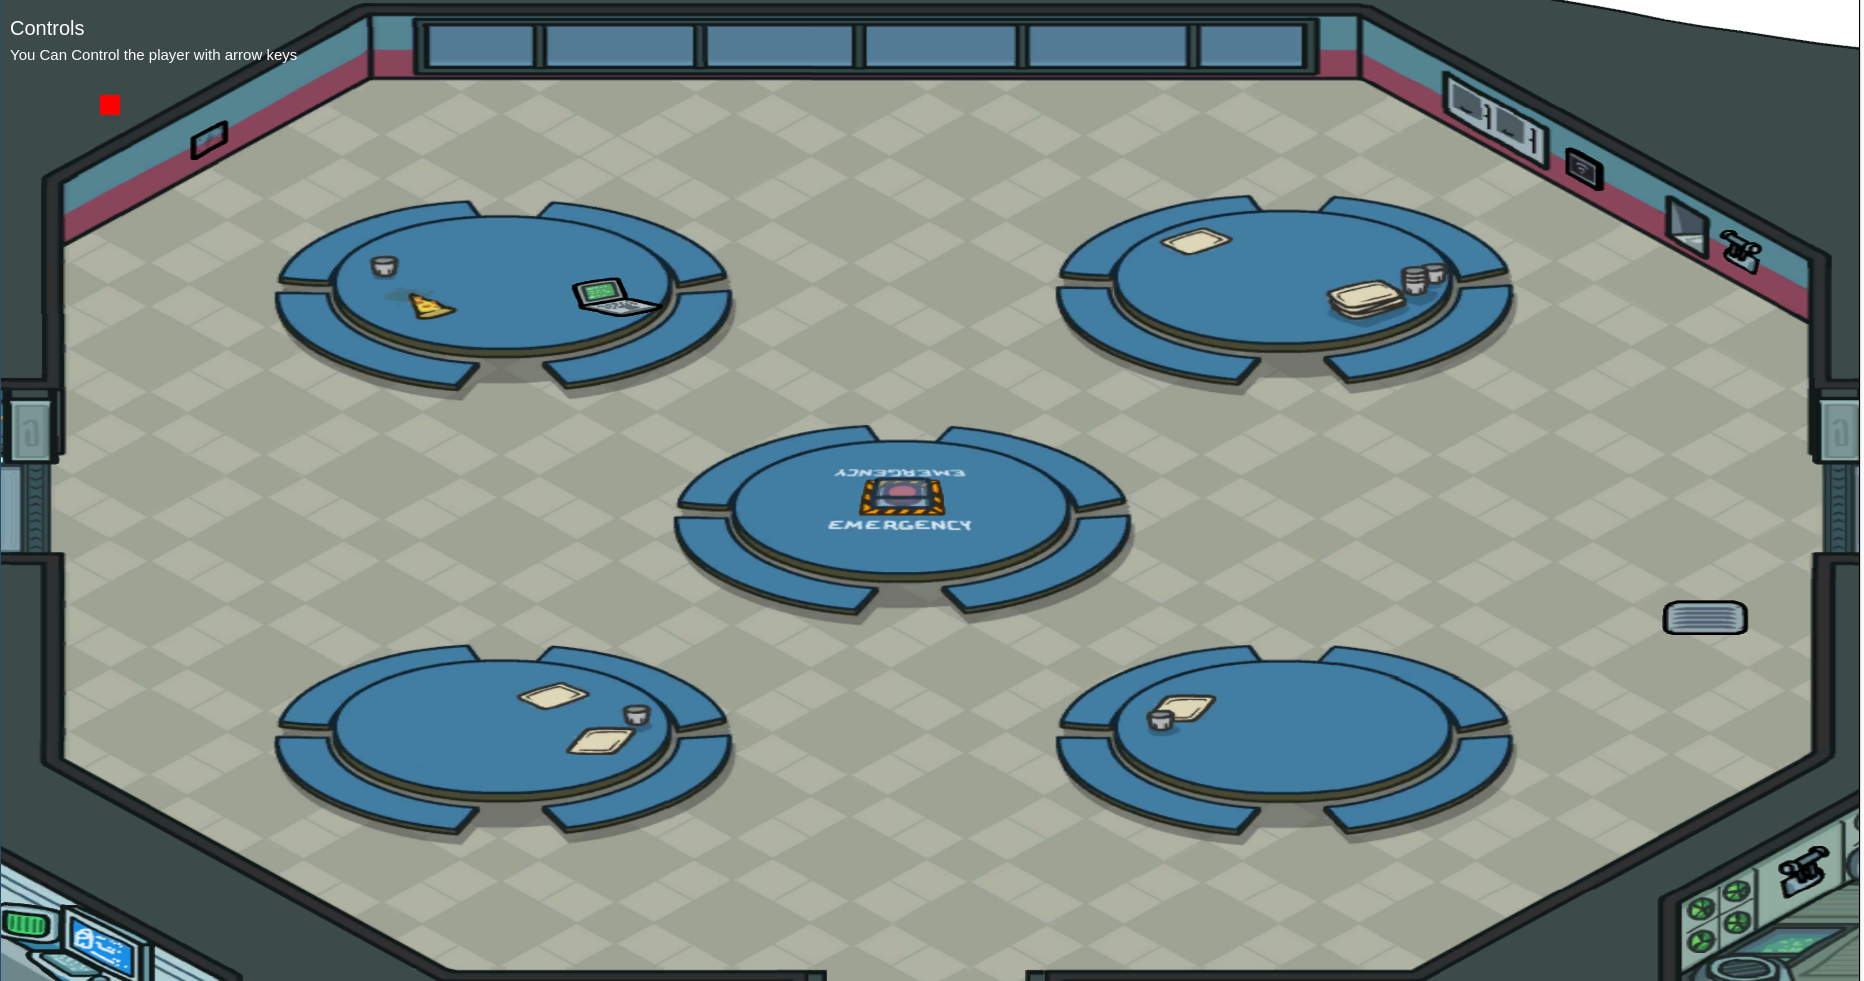
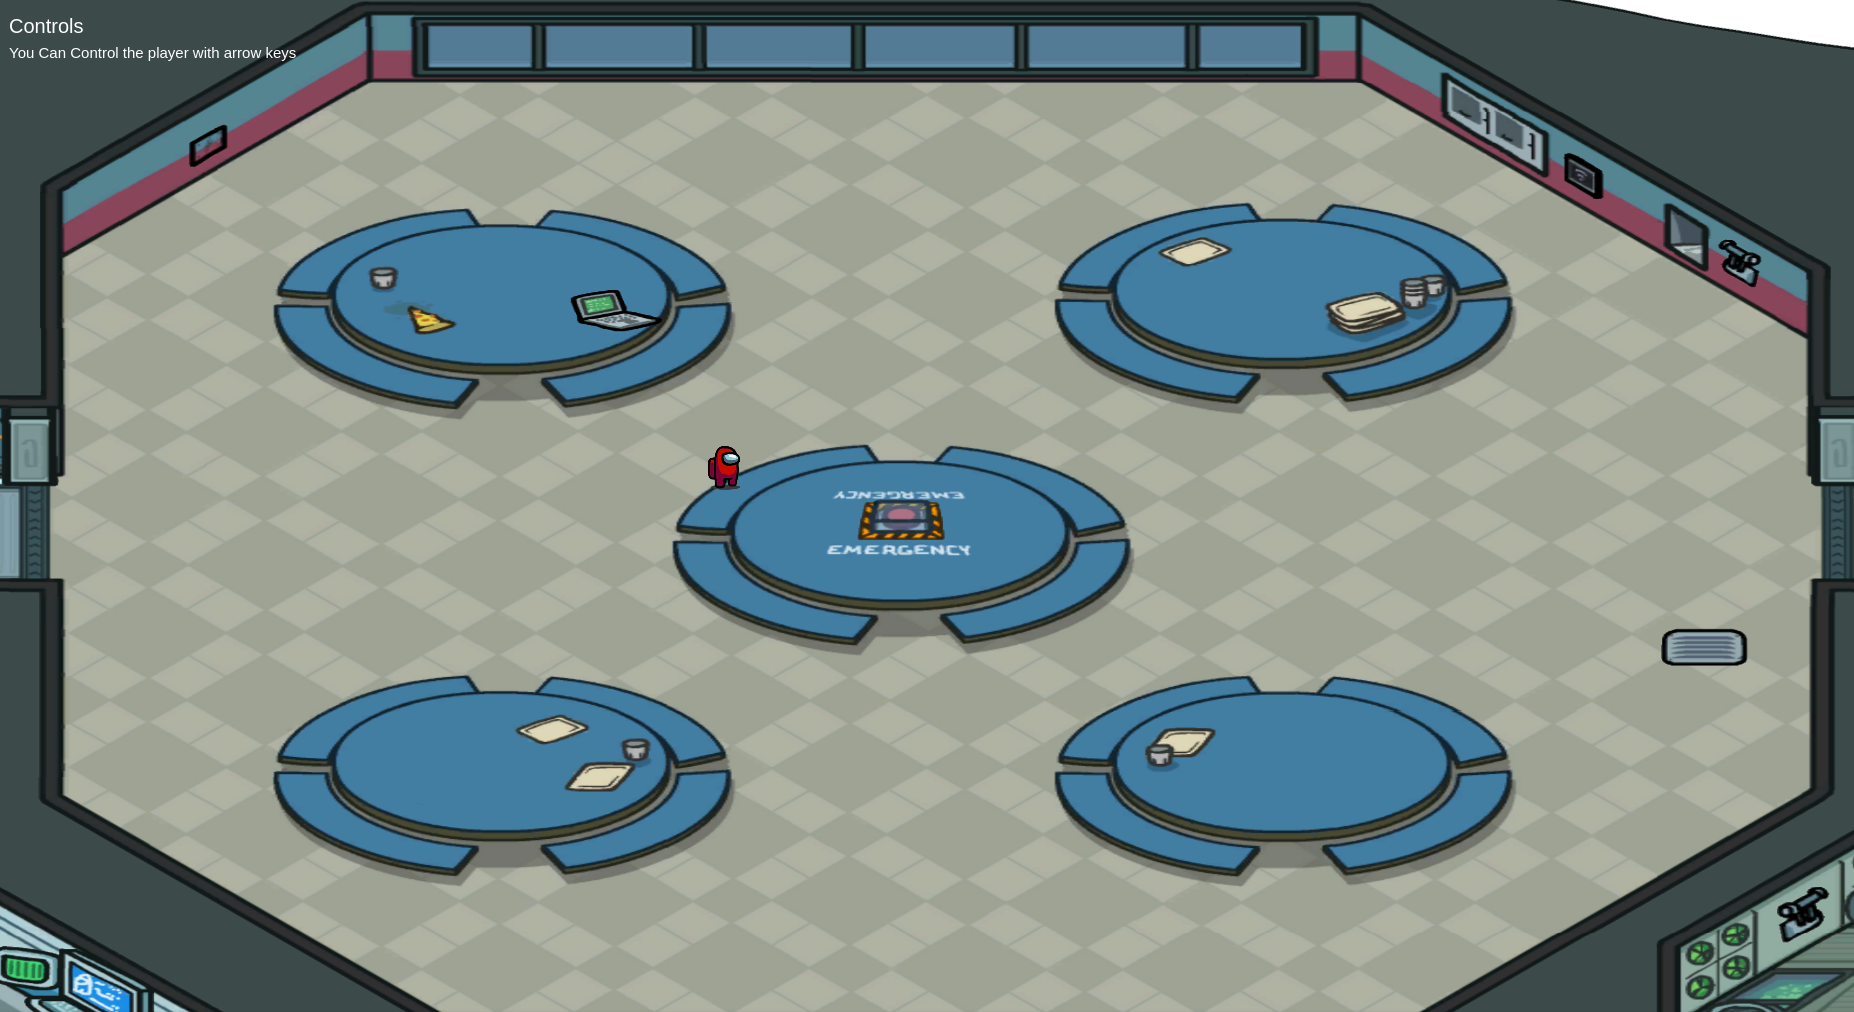
draw Player

diff --git a/main.js b/main.js
@@ -1,91 +1,125 @@
 (() => {
+    const canvasContainer = document.getElementById("canvas");
+    if (!canvasContainer) return;
 
-  const controlsUi = () => {
-    ctx.fillStyle = "white";
-    ctx.font = "20px Arial";
-    ctx.fillText("Controls", 10, 40);
-    ctx.font = "15px Arial";
-    ctx.fillText("You Can Control the player with arrow keys", 10, 65);
-  }
+    const ctx = canvasContainer.getContext("2d");
+    if (!ctx) return;
 
-  // canvas setup
-  const canvasContainer = document.getElementById("canvas")
-  let ctx = canvasContainer.getContext("2d");
-  const bgImage = new Image()
-  bgImage.src = './background.png';
+    // canvas dimentions
+    canvasContainer.width = window.innerWidth;
+    canvasContainer.height = window.innerHeight
 
-  bgImage.onload = () => {
-    ctx.drawImage(bgImage, 0, 0, canvas.width, canvas.height);
+    // Game state
+    let positionX = 400;
+    let positionY = 400;
+    const size = 50;
 
-    // After the background is drawn, you can draw other content on top
-    ctx.fillStyle = "white";
-    controlsUi()
+    // Load images
+    const bgImage = new Image();
+    bgImage.src = './background.png';
 
-    ctx.fillStyle = "red";
-    ctx.fillRect(positionX, positionY, size, size);
+    const playerImage = new Image();
+    playerImage.src = './red.png';
 
-    const image = document.getElementById("player");
+    const playerImageLeft = new Image();
+    playerImageLeft.src = './leftRed.png';
 
-    image.addEventListener("load", (e) => {
-      ctx.drawImage(image, 10, 60, 80, 80);
-    });
+    // UI functions
+    const controlsUi = () => {
+        ctx.fillStyle = "white";
+        ctx.font = "20px Arial";
+        ctx.fillText("Controls", 10, 40);
+        ctx.font = "15px Arial";
+        ctx.fillText("You Can Control the player with arrow keys", 10, 65);
+    };
 
-    function handleUp() {
-      ctx.clearRect(0, 0, canvas.width, canvas.height);
-      positionY -= 20;
-      ctx.fillRect(positionX, positionY, size, size);
-      controlsUi()
-    }
+    const drawPlayer = () => {
+            ctx.drawImage(playerImage, positionX, positionY, size, size);
+    };
 
-    function handleDown() {
-      ctx.clearRect(0, 0, canvas.width, canvas.height);
-      positionY += 20;
-      ctx.fillRect(positionX, positionY, size, size);
-      controlsUi()
-    }
+    const drawPlayerLeft = () => {
+            ctx.drawImage(playerImage, positionX, positionY, size, size);
+    };
 
-    function handleLeft() {
-      ctx.clearRect(0, 0, canvas.width, canvas.height);
-      positionX -= 20;
-      ctx.fillRect(positionX, positionY, size, size);
-      controlsUi()
-    }
+    const drawBackground = () => {
+        ctx.drawImage(bgImage, 0, 0, canvasContainer.width, canvasContainer.height);
+    };
 
-    function handleRight() {
-      ctx.clearRect(0, 0, canvas.width, canvas.height);
-      positionX += 20;
-      ctx.fillRect(positionX, positionY, size, size);
-      controlsUi()
-    }
+    // used to clear the canvas and drawing ui
+    const redrawScene = () => {
+        // used to clean canvas
+        ctx.clearRect(0, 0, canvasContainer.width, canvasContainer.height);
 
+        drawBackground();
+        controlsUi();
+        drawPlayer();
+    };
+
+    let steps = 50;
+
+    const handleUp = () => {
+        positionY = positionY - steps;
+        redrawScene();
+    };
+
+    const handleDown = () => {
+        positionY = positionY + steps;
+        redrawScene();
+    };
+
+    const handleLeft = () => {
+        positionX = positionX - steps;
+        redrawScene();
+    };
+
+    const handleRight = () => {
+        positionX = positionX + steps;
+        redrawScene();
+    };
+
+    // keyboard input
     const handleKeyPress = (event) => {
-      let key = event.key
-      if (key === "ArrowUp") {
-        handleUp()
-      }
-      if (key === "ArrowDown") {
-        handleDown()
-      }
+        switch(event.key) {
+            case "ArrowUp":
+                handleUp();
+                break;
+            case "ArrowDown":
+                handleDown();
+                break;
+            case "ArrowLeft":
+                handleLeft();
+                break;
+            case "ArrowRight":
+                handleRight();
+                break;
+        }
+    };
 
-      if (key === "ArrowLeft") {
-        handleLeft()
-      }
-      if (key === "ArrowRight") {
-        handleRight()
-      }
-    }
+    const init = () => {
+        // Set up event listeners
+        document.addEventListener("keydown", handleKeyPress);
 
-    document.addEventListener("keydown", handleKeyPress)
-  };
-  canvasContainer.width = window.innerWidth
-  canvasContainer.height = window.innerHeight - 50
+        // Handle image loading
+        const imagesLoaded = () => {
+            redrawScene();
+        };
 
-  let positionX = 100
-  let positionY = 100
-  let size = 20;
+        let imagesToLoad = 2;
+        const checkImagesLoaded = () => {
+            imagesToLoad--;
+            if (imagesToLoad === 0) {
+                imagesLoaded();
+            }
+        };
 
-  // if no canvas container for 2d return
+        bgImage.onload = checkImagesLoaded;
+        playerImage.onload = checkImagesLoaded;
 
-  if (!ctx) return
+        // If images are already loaded
+        if (bgImage.complete && playerImage.complete) {
+            redrawScene();
+        }
+    };
 
-})()
+    init();
+})();

diff --git a/index.html b/index.html
@@ -11,11 +11,6 @@
   <body>
     <main>
         <canvas width="320" height="400" id="canvas"></canvas>
-        <img id="player" src="red.jpg" />
-        <div id="controlls">
-            <h4>Controls</h4>
-            <p>you can control the player with arrow keys -> <-</p >
-        </div>
     </main>
     <script src="main.js"></script>
   </body>
